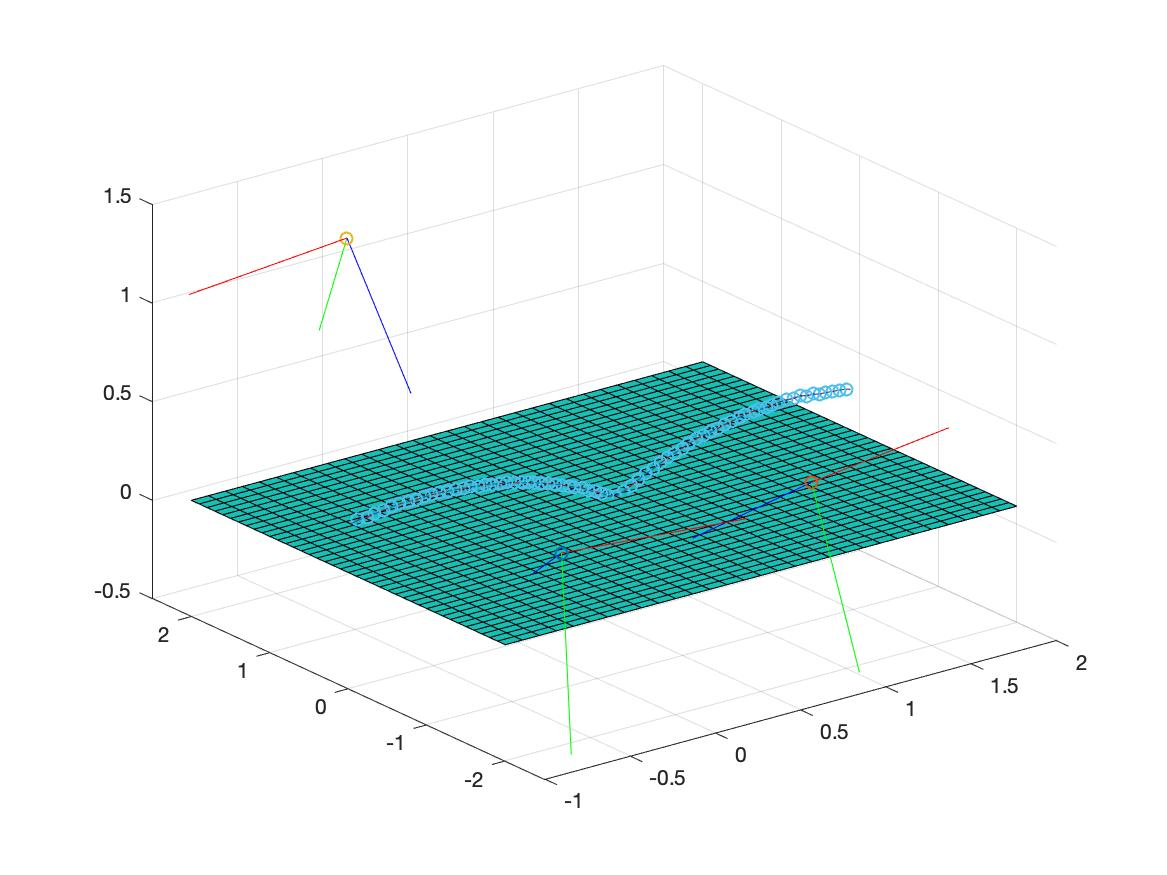
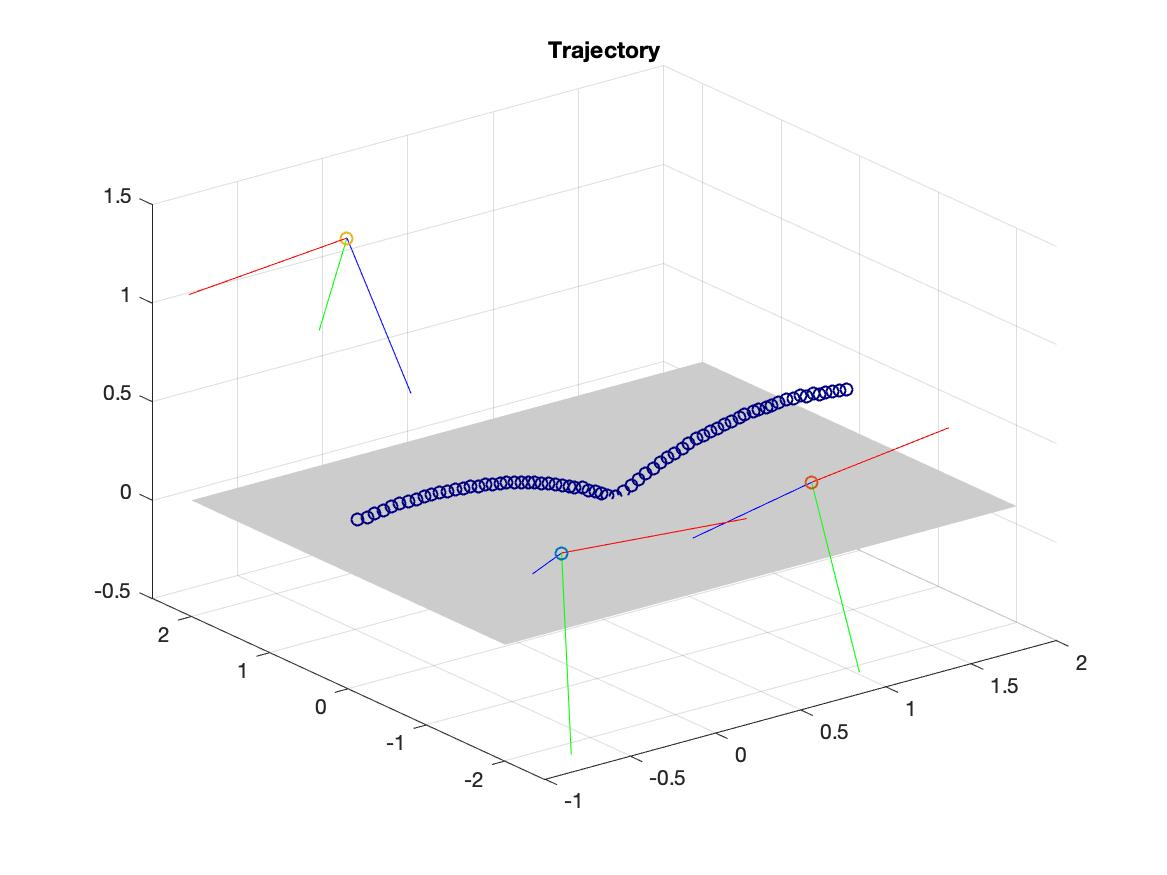
Improve visualization
* Add error visualisation (actual vs smooth)
 * Add Standard Deviation calculation
 * Improve plot colour scheme
 * Refactor triangulation code
 * Save error visualization files

Changed region(s): [[0.1542, 0.4011, 0.8638, 0.7406], [0.4627, 0.0309, 0.5553, 0.0926]]

diff --git a/plotErrorVisualization.m b/plotErrorVisualization.m
@@ -1,0 +1,132 @@
+% Visualize actual vs smoothed data
+function plotErrorVisualization(i, res, results_path)
+figH = figure;
+figName = strcat('Actual vs Smooth Coordinates for Sequence: ', num2str(i));
+set(figH, 'NumberTitle', 'off', 'Name', figName);
+
+% Smooth data
+smooth = smoothdata(res, 1, 'sgolay', 5);
+
+% Error: x
+subplot(3, 3, 1);
+plot(res(:, 1));
+hold on;
+plot(smooth(:, 1));
+title('X Coordinates');
+
+% Error: y
+subplot(3, 3, 2);
+plot(res(:, 2));
+hold on;
+plot(smooth(:, 2));
+title('Y Coordinates');
+
+% Error: z
+subplot(3, 3, 3);
+plot(res(:, 3));
+hold on;
+plot(smooth(:, 3));
+title('Z Coordinates');
+
+hold on;
+
+% Plot best fit with (x, y, z)
+subplot(3, 3, [4, 9]);
+
+% camera 1
+R1 = [9.6428667991264605e-01 -2.6484969138677328e-01 -2.4165916859785336e-03;
+    -8.9795446022112396e-02 -3.1832382771611223e-01 -9.4371961862719200e-01;
+    2.4917459103354755e-01 9.1023325674273947e-01 -3.3073772313234923e-01];
+
+t1 = [1.3305621037591506e-01;
+    -2.5319578738559911e-01;
+    2.2444637695699150e+00];
+
+t1 = -inv(R1) * t1;
+
+% camera 2
+R2 = [9.4962278945631540e-01 3.1338395965783683e-01 -2.6554800661627576e-03;
+    1.1546856489995427e-01 -3.5774736713426591e-01 -9.2665194751235791e-01;
+    -2.9134784753821596e-01 8.7966318277945221e-01 -3.7591104878304971e-01];
+
+t2 = [-4.2633372670025989e-02;
+    -3.5441906393933242e-01;
+    2.2750378317324982e+00];
+
+t2 = -inv(R2) * t2;
+
+% camera 3
+R3 = [-9.9541881789113029e-01 3.8473906154401757e-02 -8.7527912881817604e-02;
+    9.1201836523849486e-02 6.5687400820094410e-01 -7.4846426926387233e-01;
+    2.8698466908561492e-02 -7.5301812454631367e-01 -6.5737363964632056e-01];
+
+t3 = [-6.0451734755080713e-02;
+    -3.9533167111966377e-01;
+    2.2979640654841407e+00];
+
+t3 = -inv(R3) * t3;
+
+% Plot camera locations
+scatter3(t1(1), t1(2), t1(3));
+hold on;
+scatter3(t2(1), t2(2), t2(3));
+hold on;
+scatter3(t3(1), t3(2), t3(3));
+hold on;
+
+% Plot camera 1 axes
+plot3([t1(1) t1(1)+ R1(1, 1)], [t1(2) t1(2) + R1(1, 2)], [t1(3) t1(3) + R1(1, 3)], 'Color', [255, 0, 0] / 255);
+plot3([t1(1) t1(1)+ R1(2, 1)], [t1(2) t1(2) + R1(2, 2)], [t1(3) t1(3) + R1(2, 3)], 'Color', [0, 255, 0] / 255);
+plot3([t1(1) t1(1)+ R1(3, 1)], [t1(2) t1(2) + R1(3, 2)], [t1(3) t1(3) + R1(3, 3)], 'Color', [0, 0, 255] / 255);
+hold on;
+
+% Plot camera 2 axes
+plot3([t2(1) t2(1)+ R2(1, 1)], [t2(2) t2(2) + R2(1, 2)], [t2(3) t2(3) + R2(1, 3)], 'Color', [255, 0, 0] / 255);
+plot3([t2(1) t2(1)+ R2(2, 1)], [t2(2) t2(2) + R2(2, 2)], [t2(3) t2(3) + R2(2, 3)], 'Color', [0, 255, 0] / 255);
+plot3([t2(1) t2(1)+ R2(3, 1)], [t2(2) t2(2) + R2(3, 2)], [t2(3) t2(3) + R2(3, 3)], 'Color', [0, 0, 255] / 255);
+hold on;
+
+% Plot camera 3 axes
+plot3([t3(1) t3(1)+ R3(1, 1)], [t3(2) t3(2) + R3(1, 2)], [t3(3) t3(3) + R3(1, 3)], 'Color', [255, 0, 0] / 255);
+plot3([t3(1) t3(1)+ R3(2, 1)], [t3(2) t3(2) + R3(2, 2)], [t3(3) t3(3) + R3(2, 3)], 'Color', [0, 255, 0] / 255);
+plot3([t3(1) t3(1)+ R3(3, 1)], [t3(2) t3(2) + R3(3, 2)], [t3(3) t3(3) + R3(3, 3)], 'Color', [0, 0, 255] / 255);
+hold on;
+
+% Plot points
+scatter3(res(:, 1), res(:, 2), res(:, 3), 'MarkerEdgeColor', [0 0 0.5]);
+hold on;
+
+% Plot smooth curve for data points
+plot3(smooth(:, 1), smooth(:, 2), smooth(:, 3), 'LineWidth', 1.0);
+hold on;
+
+% Display Standard Deviation
+dim = [0.15 0.15 .3 .3];
+sd = get_sd_dev(res, smooth);
+str = {'Standard Deviation', sd};
+text(1, 1.5, 1, str);
+
+% Set axes limits
+xlim([-1 2])
+ylim([-2.5 2.5])
+zlim([-0.5 1.5])
+
+title('Trajectory');
+
+% Save figure as .jpg
+p = fullfile(results_path, strcat('error_visualization_', num2str(i), '.jpg'));
+print(figH, '-djpeg', p);
+end
+
+% Get the deviation between projection and smoothed curve points
+% Precondition: Number of rows in res and smooth are equal
+function sd = get_sd_dev(res, smooth)
+sd = 0;
+[r, ~] = size(res);
+
+for i = 1 : r
+    distance = norm(res(i, :) - smooth(i, :));
+    sd  = sd + (distance * distance);
+end
+sd = sqrt(sd);
+end

diff --git a/triangulate_positions.m b/triangulate_positions.m
@@ -77,54 +77,40 @@ for i = 0 : 9
     plot3([t3(1) t3(1)+ R3(3, 1)], [t3(2) t3(2) + R3(3, 2)], [t3(3) t3(3) + R3(3, 3)], 'Color', [0, 0, 255] / 255);
     hold on;
     
-    % Process points and plot a scatter plot 
+    % Get 3D points
     f = {strcat('CAM1-', num2str(i), '_cleaned.csv'), strcat('CAM2-', num2str(i), '_cleaned.csv'), strcat('CAM3-', num2str(i), '_cleaned.csv')};
     res = triangulate_fn(f, R1, t1, K1, R2, t2, K2, R3, t3, K3);
     disp(res);
     
-    % Plot trajectory scatter plot
+    % Plot trajectory scatter plot for 3D points
     p = fullfile(results_path, strcat('3dpts_', num2str(i), '.csv'));
     csvwrite(p, res);
-    scatter3(res(:, 1), res(:, 2), res(:, 3));
-    hold on;
-    
-    % Draw line through the plot - TODO: should fit a smooth curve
-    plot3(res(:, 1), res(:, 2), res(:, 3));
-    hold on;
-
-%     xi = smooth(res(:, 1));
-%     yi = smooth(res(:, 2));
-%     zi = smooth(res(:, 3));
-%     plot3(xi, yi, zi, 'r') ;
-    
-    % Plot the table at lowest z value (hack) - should actually pick the
-    % first local minima for z (this occurs for bounce on table)
-%     [x y] = meshgrid(-2:0.1:2);
-%     tableHeight = min(res(:, 3));
-%     s = surf(x, y, tableHeight + zeros(size(x)));
-    xlim([-1 2])
-    ylim([-2.5 2.5])
-    zlim([-0.5 1.5])
-    print(figH, '-djpeg', strcat('traj_', num2str(i), '.jpg'));
-    
-    smooth = smoothdata(res, 1, 'sgolay', 5);
-    plot3(smooth(:, 1), smooth(:, 2), smooth(:, 3));
+    scatter3(res(:, 1), res(:, 2), res(:, 3), 'MarkerEdgeColor', [0 0 0.5]);
     hold on;
     
     % Plot the table 
-    [x y] = meshgrid(-2:0.1:2);
+    [x, y] = meshgrid(-2:0.1:2);
     tableHeight = 0.09;
     s = surf(x, y, tableHeight + zeros(size(x)));
+    set(s,'EdgeColor','None', 'FaceColor', [0.8 0.8 0.8])
+    hold on;
     
     % Set axes limits
     xlim([-1 2])
     ylim([-2.5 2.5])
     zlim([-0.5 1.5])
     
-    % Store trajectory
+    title('Trajectory');
+    
+    figName = strcat('Trajectory of Ball for Sequence: ', num2str(i));
+    set(figH, 'NumberTitle', 'off', 'Name', figName);
+    
+    % Save figure as .jpg
     p = fullfile(results_path, strcat('traj_', num2str(i), '.jpg'));
     print(figH, '-djpeg', p);
-
+    
+    % Plot best fit line with deviation
+    plotErrorVisualization(i, res, results_path);
 end
 
 % Implement triangulation
